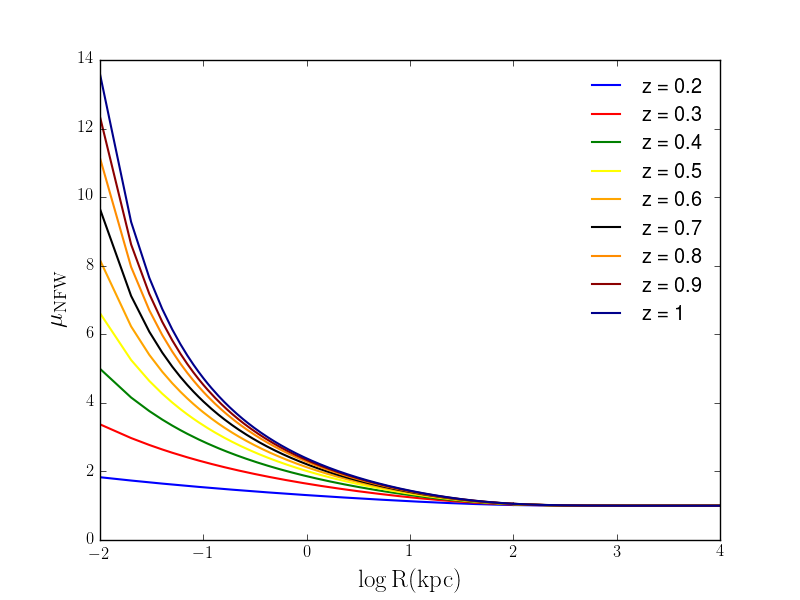
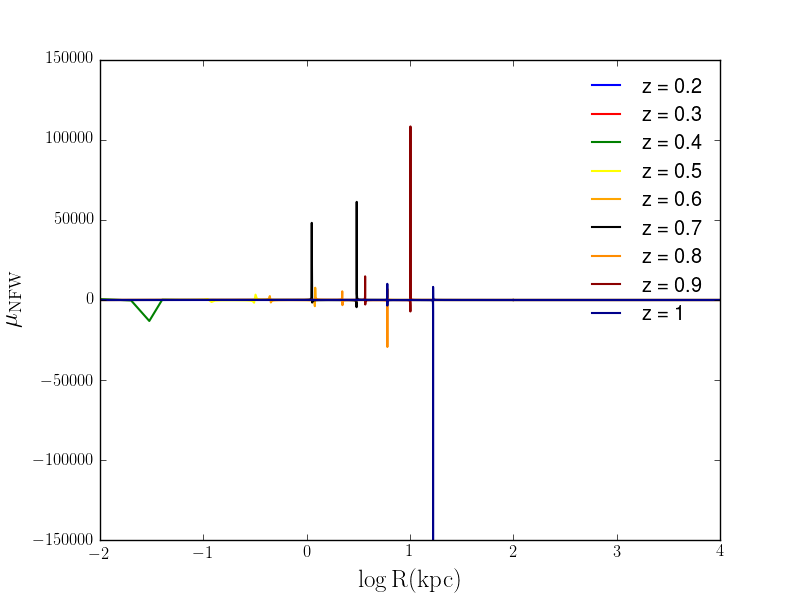
update

diff --git a/plots/Reduced_shear.py b/plots/Reduced_shear.py
@@ -12,7 +12,10 @@ rho_c    = 197.8                                  # Critical density in M_sun/kp
 r_s      = 100                                    # Characteristic radius (kpc) 
 sig_0_2 = 9.07e9;  sig_0_3 = 5.2e9; sig_0_4 = 4.29e9;  sig_0_5 = 3.88e9;
 sig_0_6 = 3.65e9;  sig_0_7 = 3.5e9; sig_0_8 = 3.39e9;  sig_0_9 = 3.32e9; sig_1   = 3.26e9;
+rho_0_2 = 248.6; rho_0_3 = 316.1; rho_0_4 = 384.8; rho_0_5 = 485.6; rho_0_6 = 589.3;
+rho_0_7 = 706.9; rho_0_8 = 839.1; rho_0_9 = 986.9; rho_1 = 1200;
 
+rhos  = [rho_0_2,rho_0_3,rho_0_4,rho_0_5,rho_0_6,rho_0_7,rho_0_8,rho_0_9,rho_1]
 redshifts = ['z = 0.2','z = 0.3','z = 0.4','z = 0.5','z = 0.6','z = 0.7','z = 0.8','z = 0.9','z = 1']
 colors = ['blue','red','green','yellow','orange','black','darkorange','darkred','darkblue','darkgreen']
 sigmas    =[sig_0_2,sig_0_3,sig_0_4,sig_0_5,sig_0_6,sig_0_7,sig_0_8,sig_0_9,sig_1]
@@ -20,22 +23,22 @@ sigmas    =[sig_0_2,sig_0_3,sig_0_4,sig_0_5,sig_0_6,sig_0_7,sig_0_8,sig_0_9,sig_
 
 for i in range(len(sigmas)):
 	r = np.arange(1.0,99,0.01)
-	plt.plot(np.log10(r),((r_s*delta_c*rho_c)*( ((8.*np.arctanh(np.sqrt((1-r/r_s)/(1+r/r_s))))/((r/r_s)**2*np.sqrt(1-(r/r_s)**2))) +\
+	plt.plot(np.log10(r),1/((r_s*delta_c*rhos[i])*( ((8.*np.arctanh(np.sqrt((1-r/r_s)/(1+r/r_s))))/((r/r_s)**2*np.sqrt(1-(r/r_s)**2))) +\
 	               ((4.*(np.log((r/r_s)/2.)))/((r/r_s)**2)) - (2./((r/r_s)**2-1)) + ((4.*np.arctanh(np.sqrt((1-(r/r_s))/(1+(r/r_s)))))/\
-	               (((r/r_s)**2-1)*(1-(r/r_s)**2)**0.5))))/((sigmas[i])-(( 2.0*r_s*delta_c*rho_c )/( (r/r_s)**2 - 1.0 )*( 1.0 -\
+	               (((r/r_s)**2-1)*(1-(r/r_s)**2)**0.5))))/((sigmas[i])-(( 2.0*r_s*delta_c*rhos[i] )/( (r/r_s)**2 - 1.0 )*( 1.0 -\
 	                2.0/( np.sqrt( 1.0 - (r/r_s)**2 ) )*np.arctanh( np.sqrt( (1.0-(r/r_s))/(1.0+(r/r_s)) ) ) ))), c=colors[i], lw=1.5)
 	r = r_s
-	plt.plot(np.log10(r),((r_s*delta_c*rho_c)*(10./3.+4.*np.log(0.5)))/(sigmas[i]-2.0*r_s*delta_c*rho_c/3.0)) 
+	plt.plot(np.log10(r),1/((r_s*delta_c*rhos[i])*(10./3.+4.*np.log(0.5)))/(sigmas[i]-2.0*r_s*delta_c*rhos[i]/3.0)) 
 	r = np.arange(101,10000,0.01)
-	plt.plot(np.log10(r),(((r_s*delta_c*rho_c))*( ((8.*np.arctan(np.sqrt(((r/r_s)-1)/(1+(r/r_s)))))/((r/r_s)**2*np.sqrt((r/r_s)**2-1))) +\
+	plt.plot(np.log10(r),1/(((r_s*delta_c*rhos[i]))*( ((8.*np.arctan(np.sqrt(((r/r_s)-1)/(1+(r/r_s)))))/((r/r_s)**2*np.sqrt((r/r_s)**2-1))) +\
 				   ((4*(np.log((r/r_s)/2.)))/((r/r_s)**2)) - (2./((r/r_s)**2-1.)) + ((4*np.arctan(np.sqrt(((r/r_s)-1)/(1+(r/r_s)))))/(((r/r_s)**2-1)**1.5))))/\
-				   (sigmas[i]-( 2.0*r_s*delta_c*rho_c )/( (r/r_s)**2 - 1.0 ) *( 1.0 - 2.0/( np.sqrt( (r/r_s)**2 - 1.0 ) )*\
+				   (sigmas[i]-( 2.0*r_s*delta_c*rhos[i] )/( (r/r_s)**2 - 1.0 ) *( 1.0 - 2.0/( np.sqrt( (r/r_s)**2 - 1.0 ) )*\
 				   np.arctan( np.sqrt( ( (r/r_s)-1.0 )/( 1+(r/r_s) ) ) ) )),\
 					label= redshifts[i], c=colors[i], lw=1.5)
 
 
 #plt.axhline(y=.5, xmin=0., xmax=10.,linewidth=1, color = 'k', linestyle='--')
-#plt.ylim(0,0.05)
+plt.xlim(0,1.5)
 plt.xlabel(r'$\mathrm{\log R(kpc)}$', fontsize=18) 
 plt.ylabel('$\mathrm{g_{NFW}}$', fontsize=18)
 #plt.title(r'$\mathrm{Reduced\:Shear}$', fontsize=20)

diff --git a/plots/shear vs radius.py b/plots/shear vs radius.py
@@ -8,24 +8,27 @@ mpl.rcParams['text.usetex'] = True
 
 c        = 4.46                                   # Concentration parameter
 delta_c = (200./3)*(c**3.)/(np.log(1+c)-c/(1+c))
-rho_c    = 197.8                                  # Critical density in M_sun/kpc^3 (197.8)
+#rho_c    = 197.8                                  # Critical density in M_sun/kpc^3 (197.8)
 r_s      = 100                                    # Characteristic radius (kpc) 
 sig_0_2 = 9.07e9;  sig_0_3 = 5.2e9; sig_0_4 = 4.29e9;  sig_0_5 = 3.88e9;
 sig_0_6 = 3.65e9;  sig_0_7 = 3.5e9; sig_0_8 = 3.39e9;  sig_0_9 = 3.32e9; sig_1   = 3.26e9;
+rho_0_2 = 248.6; rho_0_3 = 316.1; rho_0_4 = 384.8; rho_0_5 = 485.6; rho_0_6 = 589.3;
+rho_0_7 = 706.9; rho_0_8 = 839.1; rho_0_9 = 986.9; rho_1 = 1200;
 
+rhos  = [rho_0_2,rho_0_3,rho_0_4,rho_0_5,rho_0_6,rho_0_7,rho_0_8,rho_0_9,rho_1]
 redshifts = ['z = 0.2','z = 0.3','z = 0.4','z = 0.5','z = 0.6','z = 0.7','z = 0.8','z = 0.9','z = 1']
 colors = ['blue','red','green','yellow','orange','black','darkorange','darkred','darkblue','darkgreen']
 sigmas    =[sig_0_2,sig_0_3,sig_0_4,sig_0_5,sig_0_6,sig_0_7,sig_0_8,sig_0_9,sig_1]
 
 for i in range(len(sigmas)):
 	r = np.arange(1.0,99,0.001)
-	plt.plot(np.log10(r),((r_s*delta_c*rho_c)/sigmas[i]*( ((8.*np.arctanh(np.sqrt((1-r/r_s)/(1+r/r_s))))/((r/r_s)**2*np.sqrt(1-(r/r_s)**2))) +\
+	plt.plot(np.log10(r),((r_s*delta_c*rhos[i])/sigmas[i]*( ((8.*np.arctanh(np.sqrt((1-r/r_s)/(1+r/r_s))))/((r/r_s)**2*np.sqrt(1-(r/r_s)**2))) +\
 	               ((4.*(np.log((r/r_s)/2.)))/((r/r_s)**2)) - (2./((r/r_s)**2-1)) + ((4.*np.arctanh(np.sqrt((1-(r/r_s))/(1+(r/r_s)))))/\
 	               (((r/r_s)**2-1)*(1-(r/r_s)**2)**0.5)))), c=colors[i], lw=1.5)
 	r = r_s
-	plt.plot(np.log10(r),((r_s*delta_c*rho_c)/sigmas[i]*(10./3.+4.*np.log(0.5)))) 
+	plt.plot(np.log10(r),((r_s*delta_c*rhos[i])/sigmas[i]*(10./3.+4.*np.log(0.5)))) 
 	r = np.arange(101,10000,0.001)
-	plt.plot(np.log10(r),(((r_s*delta_c*rho_c)/sigmas[i])*( ((8.*np.arctan(np.sqrt(((r/r_s)-1)/(1+(r/r_s)))))/((r/r_s)**2*np.sqrt((r/r_s)**2-1))) +\
+	plt.plot(np.log10(r),(((r_s*delta_c*rhos[i])/sigmas[i])*( ((8.*np.arctan(np.sqrt(((r/r_s)-1)/(1+(r/r_s)))))/((r/r_s)**2*np.sqrt((r/r_s)**2-1))) +\
 				   ((4*(np.log((r/r_s)/2.)))/((r/r_s)**2)) - (2./((r/r_s)**2-1.)) + ((4*np.arctan(np.sqrt(((r/r_s)-1)/(1+(r/r_s)))))/(((r/r_s)**2-1)**1.5))))\
 				   ,label= redshifts[i], c=colors[i], lw=1.5)
 

diff --git a/plots/trial.py b/plots/trial.py
@@ -28,24 +28,24 @@ for i in range(len(sigmas)):
 	               (((r/r_s)**2-1)*(1-(r/r_s)**2)**0.5))))
 	sigma_1 = (( 2.0*r_s*delta_c*rhos[i] )/( (r/r_s)**2 - 1.0 )*( 1.0 -\
 	                2.0/( np.sqrt( 1.0 - (r/r_s)**2 ) )*np.arctanh( np.sqrt( (1.0-(r/r_s))/(1.0+(r/r_s)) ) ) ))
-	plt.plot(np.log10(r),1./((1.-(sigma_1/sigmas[i]))**2.-(gamma_1)**2.), c=colors[i], lw=1.5)
+	plt.plot(np.log10(r),((1.-(sigma_1/sigmas[i]))**2.-(gamma_1)**2.), c=colors[i], lw=1.5)
 	                
 	r = r_s
 	gamma_2 =  ((r_s*delta_c*rhos[i])/sigmas[i]*(10./3.+4.*np.log(0.5)))
 	sigma_2 = (2.0*r_s*delta_c*rhos[i]/3.0)
-	plt.plot(np.log10(r),1./((1.-(sigma_2/sigmas[i]))**2.-(gamma_2)**2.))
+	plt.plot(np.log10(r),((1.-(sigma_2/sigmas[i]))**2.-(gamma_2)**2.))
 
 	r = np.arange(101,10000,0.01)
 	gamma_3 = (((r_s*delta_c*rhos[i]))/sigmas[i]*( ((8.*np.arctan(np.sqrt(((r/r_s)-1)/(1+(r/r_s)))))/((r/r_s)**2*np.sqrt((r/r_s)**2-1))) +\
 		  ((4*(np.log((r/r_s)/2.)))/((r/r_s)**2.)) - (2./((r/r_s)**2-1.)) + ((4*np.arctan(np.sqrt(((r/r_s)-1)/(1+(r/r_s)))))/(((r/r_s)**2-1)**1.5))))
 	sigma_3 = (( 2.0*r_s*delta_c*rhos[i] )/( (r/r_s)**2. - 1.0 ) *( 1.0 - 2.0/( np.sqrt( (r/r_s)**2 - 1.0 ) )*\
 				   np.arctan( np.sqrt( ( (r/r_s)-1.0 )/( 1+(r/r_s) ) ) ) ))
-	plt.plot(np.log10(r), 1./((1.-(sigma_3/sigmas[i]))**2.-(gamma_3)**2.) , label= redshifts[i], c=colors[i], lw=1.5)
+	plt.plot(np.log10(r), ((1.-(sigma_3/sigmas[i]))**2.-(gamma_3)**2.) , label= redshifts[i], c=colors[i], lw=1.5)
 
 #plt.axhline(y=.5, xmin=0., xmax=10.,linewidth=1, color = 'k', linestyle='--')
 plt.xlabel(r'$\mathrm{\log R(kpc)}$', fontsize=18) 
-plt.ylabel('$\mathrm{\mu_{NFW}}$', fontsize=18)
+plt.ylabel('$\mathrm{(1-\kappa)^{2}=\gamma^{2}}$', fontsize=18)
 #plt.title(r'$\mathrm{Reduced\:Shear}$', fontsize=20)
 plt.legend(frameon=False) #plt.legend(frameon=False,bbox_to_anchor=(0.95, 0.2), loc=1, borderaxespad=0.)
-plt.savefig("Magnification.png")
+plt.savefig("trial.png")
 plt.show()
